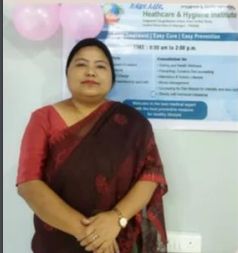
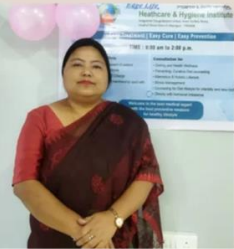
Final Deploy

diff --git a/src/pages/Donate.jsx b/src/pages/Donate.jsx
@@ -164,10 +164,8 @@ export default function Donate({ setActivePage }) {
       formDataObj.append('utr', auditForm.utr);
       formDataObj.append('amount', `₹${effectiveAmount}`);
       formDataObj.append('purpose', 'Donation for Manipur Programs');
-      formDataObj.append('_subject', `New Donation Verification Request - ₹${effectiveAmount}`);
-      formDataObj.append('message', auditForm.message || '');
       formDataObj.append('_honey', auditForm._honey || '');
-      formDataObj.append('_autoresponder', "Thank you for your generous donation to Edge Life. We have received your payment verification details. Please note that official stamped tax receipts or 80G certificates must be requested directly by emailing us at edgelifemanipur05@gmail.com. Thank you for building a value world with us! Edge Life");
+      formDataObj.append('_autoresponder', "Thank you for your generous contribution to Edge Life. We have received your payment submission details. Edge Life is a registered public trust. If you require a formal donation receipt or have any queries, please contact the NGO directly at edgelifemanipur05@gmail.com or +91 9436231759. Thank you for supporting our community programs in Manipur! - Edge Life");
       
       if (screenshotFile) {
         formDataObj.append('attachment', screenshotFile);
@@ -637,11 +635,11 @@ export default function Donate({ setActivePage }) {
                     ></textarea>
                   </div>
 
-                  {/* 80G Tax Exemption Notice */}
-                  <div style={{ backgroundColor: '#E2F0EA', border: '1px solid #B8DCCE', borderRadius: '6px', padding: '10px 14px', display: 'flex', alignItems: 'center', gap: '10px' }}>
-                    <ShieldCheck size={20} style={{ color: 'var(--green-accent)', flexShrink: 0 }} />
-                    <span style={{ fontSize: '0.78rem', color: '#1E4620' }}>
-                      Donations are eligible for <strong>80G Tax Deduction</strong>. Please contact us directly at <strong>edgelifemanipur05@gmail.com</strong> to request stamped tax receipts or certificates.
+                  {/* Tax / Receipt Notice */}
+                  <div style={{ backgroundColor: '#FAF6EF', border: '1px solid #EAE2D5', borderRadius: '8px', padding: '12px 14px', display: 'flex', alignItems: 'flex-start', gap: '10px' }}>
+                    <ShieldCheck size={20} style={{ color: 'var(--primary-red)', flexShrink: 0, marginTop: '2px' }} />
+                    <span style={{ fontSize: '0.78rem', color: '#5A4A3A', lineHeight: '1.45' }}>
+                      <strong>Tax Receipt Notice:</strong> Edge Life is a registered public trust. If you require a formal tax receipt for your contribution, please contact the NGO directly with your transaction details at <strong>edgelifemanipur05@gmail.com</strong> or <strong>+91 9436231759</strong>.
                     </span>
                   </div>
 
@@ -668,44 +666,96 @@ export default function Donate({ setActivePage }) {
               </div>
             )}
 
-            {/* STEP 4: SUCCESS CELEBRATION */}
+            {/* STEP 4: SUCCESS CELEBRATION & ON-SCREEN RECEIPT */}
             {step === 4 && (
-              <div style={{ textAlign: 'center', padding: '20px 0' }}>
+              <div style={{ textAlign: 'center', padding: '10px 0' }}>
                 <div
                   style={{
-                    width: '80px',
-                    height: '80px',
+                    width: '72px',
+                    height: '72px',
                     borderRadius: '50%',
                     backgroundColor: 'var(--green-accent)',
                     color: 'white',
                     display: 'flex',
                     alignItems: 'center',
                     justifyContent: 'center',
-                    margin: '0 auto 20px',
-                    boxShadow: '0 8px 24px rgba(46, 107, 79, 0.3)',
+                    margin: '0 auto 16px',
+                    boxShadow: '0 8px 24px rgba(46, 107, 79, 0.25)',
                   }}
                 >
-                  <Sparkles size={40} />
+                  <Sparkles size={36} />
                 </div>
 
-                <h2 className="section-title" style={{ fontSize: '2.4rem', marginBottom: '10px' }}>
+                <h2 className="section-title" style={{ fontSize: '2.2rem', marginBottom: '8px' }}>
                   Thank You, Truly!
                 </h2>
 
-                <p style={{ fontSize: '1.1rem', color: '#4A443D', maxWidth: '480px', margin: '0 auto 16px', lineHeight: '1.6' }}>
-                  Your gift of <strong style={{ color: 'var(--primary-red)' }}>₹{effectiveAmount.toLocaleString()}</strong> is now on its way to empowering communities across Manipur.
+                <p style={{ fontSize: '1.05rem', color: '#4A443D', maxWidth: '480px', margin: '0 auto 20px', lineHeight: '1.5' }}>
+                  Your contribution of <strong style={{ color: 'var(--primary-red)' }}>₹{effectiveAmount.toLocaleString()}</strong> has been submitted to support community programs in Manipur.
                 </p>
 
-                <p style={{ fontSize: '0.88rem', color: '#8A7060', marginBottom: '32px' }}>
-                  Once our team verifies the UTR, your official <strong>80G Tax Exemption Receipt</strong> will be emailed directly to your inbox.
-                </p>
+                {/* On-Screen Receipt Card */}
+                <div
+                  style={{
+                    backgroundColor: '#FAF6EF',
+                    border: '1px solid #EAE2D5',
+                    borderRadius: '12px',
+                    padding: '20px 24px',
+                    maxWidth: '440px',
+                    margin: '0 auto 24px',
+                    textAlign: 'left',
+                    boxShadow: '0 4px 16px rgba(0,0,0,0.04)'
+                  }}
+                >
+                  <div style={{ display: 'flex', justifyContent: 'space-between', alignItems: 'center', borderBottom: '1px solid #EAE2D5', paddingBottom: '10px', marginBottom: '12px' }}>
+                    <span style={{ fontSize: '0.75rem', fontWeight: '800', textTransform: 'uppercase', letterSpacing: '1px', color: '#8A7060' }}>
+                      Submission Confirmation
+                    </span>
+                    <span style={{ fontSize: '0.72rem', color: '#2E6B4F', fontWeight: 'bold', backgroundColor: '#E2F0EA', padding: '2px 8px', borderRadius: '4px' }}>
+                      Received
+                    </span>
+                  </div>
 
-                <div style={{ display: 'flex', gap: '14px', justifyContent: 'center' }}>
-                  <button className="btn-primary" onClick={() => setActivePage('home')}>
+                  <div style={{ display: 'flex', flexDirection: 'column', gap: '8px', fontSize: '0.85rem' }}>
+                    <div style={{ display: 'flex', justifyContent: 'space-between' }}>
+                      <span style={{ color: '#8A7060' }}>Donor Name:</span>
+                      <strong style={{ color: '#1A1816' }}>{auditForm.name || 'Anonymous Donor'}</strong>
+                    </div>
+                    <div style={{ display: 'flex', justifyContent: 'space-between' }}>
+                      <span style={{ color: '#8A7060' }}>Amount:</span>
+                      <strong style={{ color: 'var(--primary-red)', fontSize: '1rem' }}>₹{effectiveAmount.toLocaleString()}</strong>
+                    </div>
+                    <div style={{ display: 'flex', justifyContent: 'space-between' }}>
+                      <span style={{ color: '#8A7060' }}>UTR Reference:</span>
+                      <strong style={{ color: '#1A1816', letterSpacing: '1px' }}>{auditForm.utr || '—'}</strong>
+                    </div>
+                    <div style={{ display: 'flex', justifyContent: 'space-between' }}>
+                      <span style={{ color: '#8A7060' }}>Date:</span>
+                      <span style={{ color: '#1A1816', fontWeight: '600' }}>{new Date().toLocaleDateString('en-IN', { day: 'numeric', month: 'short', year: 'numeric' })}</span>
+                    </div>
+                  </div>
+
+                  <div style={{ borderTop: '1px dashed #D4C4B0', marginTop: '12px', paddingTop: '10px' }}>
+                    <p style={{ fontSize: '0.72rem', color: '#8A7060', lineHeight: '1.45', margin: 0 }}>
+                      ℹ <strong>Note:</strong> Edge Life is a registered public trust. For official tax receipts or certificate queries, please contact the NGO directly at <strong>edgelifemanipur05@gmail.com</strong> or <strong>+91 9436231759</strong>.
+                    </p>
+                  </div>
+                </div>
+
+                <div style={{ display: 'flex', gap: '12px', justifyContent: 'center', flexWrap: 'wrap' }}>
+                  <button
+                    type="button"
+                    className="btn-outline-gold"
+                    style={{ color: 'var(--text-dark)', borderColor: '#D4C4B0', padding: '10px 18px', fontSize: '0.85rem' }}
+                    onClick={() => window.print()}
+                  >
+                    🖨 Print Confirmation
+                  </button>
+                  <button className="btn-primary" style={{ padding: '10px 20px', fontSize: '0.85rem' }} onClick={() => setActivePage('home')}>
                     Return Home
                   </button>
-                  <button className="btn-outline-gold" style={{ color: 'var(--text-dark)', borderColor: '#D4C4B0' }} onClick={() => setActivePage('projects')}>
-                    See Projects You're Funding
+                  <button className="btn-outline-gold" style={{ color: 'var(--text-dark)', borderColor: '#D4C4B0', padding: '10px 18px', fontSize: '0.85rem' }} onClick={() => setActivePage('projects')}>
+                    View Projects
                   </button>
                 </div>
               </div>
@@ -715,10 +765,10 @@ export default function Donate({ setActivePage }) {
           {/* TRUST BADGES FOOTNOTE */}
           {step < 4 && (
             <div className="trust-badges-grid">
-              <div className="trust-badge-card">🔒 Secure UPI Payment</div>
-              <div className="trust-badge-card">📄 80G Tax Receipt</div>
-              <div className="trust-badge-card">✅ FCRA Compliant</div>
-              <div className="trust-badge-card">📊 Transparent Audit</div>
+              <div className="trust-badge-card">🔒 Direct Bank &amp; UPI Transfer</div>
+              <div className="trust-badge-card">🏛 Registered Public Trust</div>
+              <div className="trust-badge-card">✨ 100% Community Impact</div>
+              <div className="trust-badge-card">📊 Transparent Operations</div>
             </div>
           )}
         </div>

diff --git a/src/pages/PrivacyPolicy.jsx b/src/pages/PrivacyPolicy.jsx
@@ -37,15 +37,14 @@ export default function PrivacyPolicy({ setActivePage }) {
             </p>
             <ul style={{ paddingLeft: '20px', marginTop: '8px' }}>
               <li>We export and log the submitted transaction information (UTR, Name, Amount, Screenshot) into our secure Google Sheets database.</li>
-              <li>We manually match this log against our official State Bank of India merchant bank account statement to verify that the funds have been successfully received.</li>
-              <li>Official stamped 80G tax exemption receipts must be requested by the donor by emailing us directly at <strong>edgelifemanipur05@gmail.com</strong>. We will manually compile and email the certificate upon request once verification succeeds.</li>
+              <li>Donation acknowledgment receipts can be requested by emailing us directly at <strong>edgelifemanipur05@gmail.com</strong>. Our team will verify and email the receipt upon request.</li>
             </ul>
           </section>
 
           <section>
             <h2 style={{ fontSize: '1.4rem', fontWeight: '700', color: '#1A1816', marginBottom: '12px' }}>3. Data Security and Retention</h2>
             <p>
-              Your security is paramount. All communication between your browser and our website is encrypted using SSL/TLS protocols. We retain your transaction record on our Google Sheets ledger solely for accounting, tax auditing, and 80G exemption receipt reference as required by Indian law.
+              Your security is paramount. All communication between your browser and our website is encrypted using SSL/TLS protocols. We retain transaction records solely for internal NGO accounting and verification references.
             </p>
           </section>
 

diff --git a/src/pages/Contact.jsx b/src/pages/Contact.jsx
@@ -145,17 +145,6 @@ export default function Contact({ setActivePage }) {
                   <p>Sunday: Closed</p>
                 </div>
               </div>
-
-              {/* Connect with us */}
-              <div style={{ marginTop: '10px' }}>
-                <span className="form-label" style={{ display: 'block', marginBottom: '12px' }}>Connect with us</span>
-                <div className="social-icons-row">
-                  <button className="social-btn" style={{ borderColor: '#E5DDCF', color: '#3A352F' }}>FB</button>
-                  <button className="social-btn" style={{ borderColor: '#E5DDCF', color: '#3A352F' }}>TW</button>
-                  <button className="social-btn" style={{ borderColor: '#E5DDCF', color: '#3A352F' }}>IG</button>
-                  <button className="social-btn" style={{ borderColor: '#E5DDCF', color: '#3A352F' }}>YT</button>
-                </div>
-              </div>
             </div>
 
             {/* Right Column: Send us a Message */}
@@ -163,7 +152,7 @@ export default function Contact({ setActivePage }) {
               <div>
                 <h3 className="section-title" style={{ fontSize: '1.8rem', marginBottom: '6px' }}>Send us a Message</h3>
                 <p className="section-subtitle" style={{ fontSize: '0.88rem' }}>
-                  Fill out the form below and we'll respond within 24 hours.
+                  Fill out the form below.
                 </p>
               </div>
 

diff --git a/src/pages/TermsOfUse.jsx b/src/pages/TermsOfUse.jsx
@@ -33,9 +33,9 @@ export default function TermsOfUse({ setActivePage }) {
           </section>
 
           <section>
-            <h2 style={{ fontSize: '1.4rem', fontWeight: '700', color: '#1A1816', marginBottom: '12px' }}>3. 80G Tax Exemption Certificates</h2>
+            <h2 style={{ fontSize: '1.4rem', fontWeight: '700', color: '#1A1816', marginBottom: '12px' }}>3. Donation Receipts and Inquiries</h2>
             <p>
-              Edge Life is a registered trust eligible for 80G tax deduction. Donors who require an official stamped 80G tax exemption certificate must email their request and transaction details directly to <strong>edgelifemanipur05@gmail.com</strong>. Stamped tax receipts are not generated automatically. We are not responsible for delays or failure to claim deductions due to incorrect personal details (PAN, name, email) provided by the donor.
+              Edge Life is a registered public trust. Donors who require a formal donation receipt or acknowledgment certificate must email their transaction details and request directly to <strong>edgelifemanipur05@gmail.com</strong>. Automated tax receipts are not generated on the website. Official receipts are issued manually following verification with our bank records.
             </p>
           </section>
 

diff --git a/src/index.css b/src/index.css
@@ -2584,6 +2584,8 @@ button {
   border-radius: 12px;
   box-shadow: 0 16px 36px rgba(0, 0, 0, 0.28);
   z-index: 20;
+  animation: animBobFloat 3.8s ease-in-out infinite;
+  will-change: transform, box-shadow;
 }
 
 .hero-floating-icon {
@@ -2749,9 +2751,11 @@ button {
 @keyframes animBobFloat {
   0%, 100% {
     transform: translateY(-50%) translateY(0px);
+    box-shadow: 0 14px 30px rgba(0, 0, 0, 0.25);
   }
   50% {
-    transform: translateY(-50%) translateY(-10px);
+    transform: translateY(-50%) translateY(-14px);
+    box-shadow: 0 24px 44px rgba(0, 0, 0, 0.16);
   }
 }
 
@@ -2780,10 +2784,17 @@ button {
     width: 100%;
     max-width: 280px;
     box-shadow: 0 16px 36px rgba(0, 0, 0, 0.2);
+    animation: animBobFloatMobile 3.8s ease-in-out infinite;
   }
-  @keyframes animBobFloat {
-    0%, 100% { transform: translateY(0px); }
-    50% { transform: translateY(-8px); }
+  @keyframes animBobFloatMobile {
+    0%, 100% {
+      transform: translateY(0px);
+      box-shadow: 0 14px 28px rgba(0, 0, 0, 0.2);
+    }
+    50% {
+      transform: translateY(-10px);
+      box-shadow: 0 22px 38px rgba(0, 0, 0, 0.14);
+    }
   }
 }
 

diff --git a/src/components/HeroSection.jsx b/src/components/HeroSection.jsx
@@ -90,7 +90,7 @@ export default function HeroSection({ setActivePage }) {
             </div>
 
             {/* RIGHT: Floating Donation Card */}
-            <div className="hero-floating-card-box anim-bounce-in anim-delay-6">
+            <div className="hero-floating-card-box">
               <div className="hero-floating-icon">
                 <Heart size={18} className="heart-icon" />
               </div>
